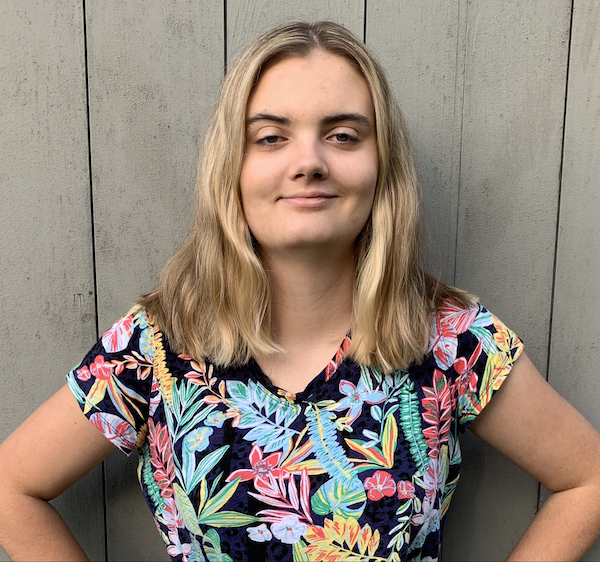
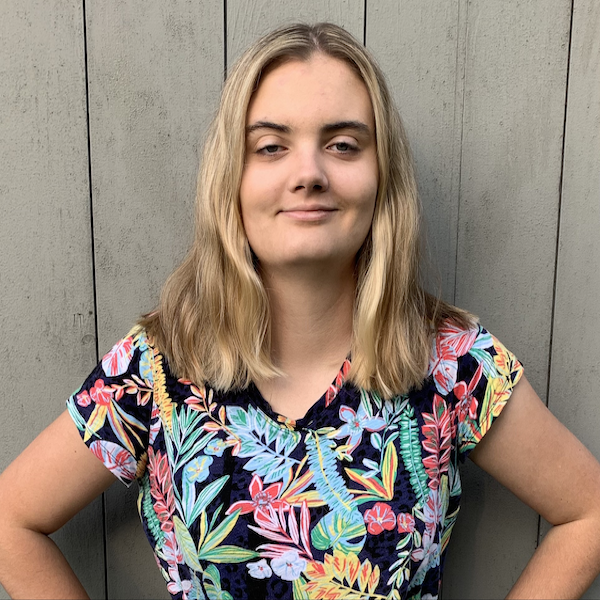
made my profile pic a circle

diff --git a/portfolio/css/portfolio.css b/portfolio/css/portfolio.css
@@ -112,7 +112,19 @@ ul li a {
   float: right;
   padding-left: 10px;
   padding-bottom: 5px;
+  object-fit: cover;
+  border-radius: 50%;
 }
+/* 
+.circle-img {
+  width: 600px;
+  height: 562px;
+  overflow: hidden;
+  display: block;  
+  object-fit: cover;
+  border-radius: 50%;
+} */
+
 
 hr {
   width: 80%;
